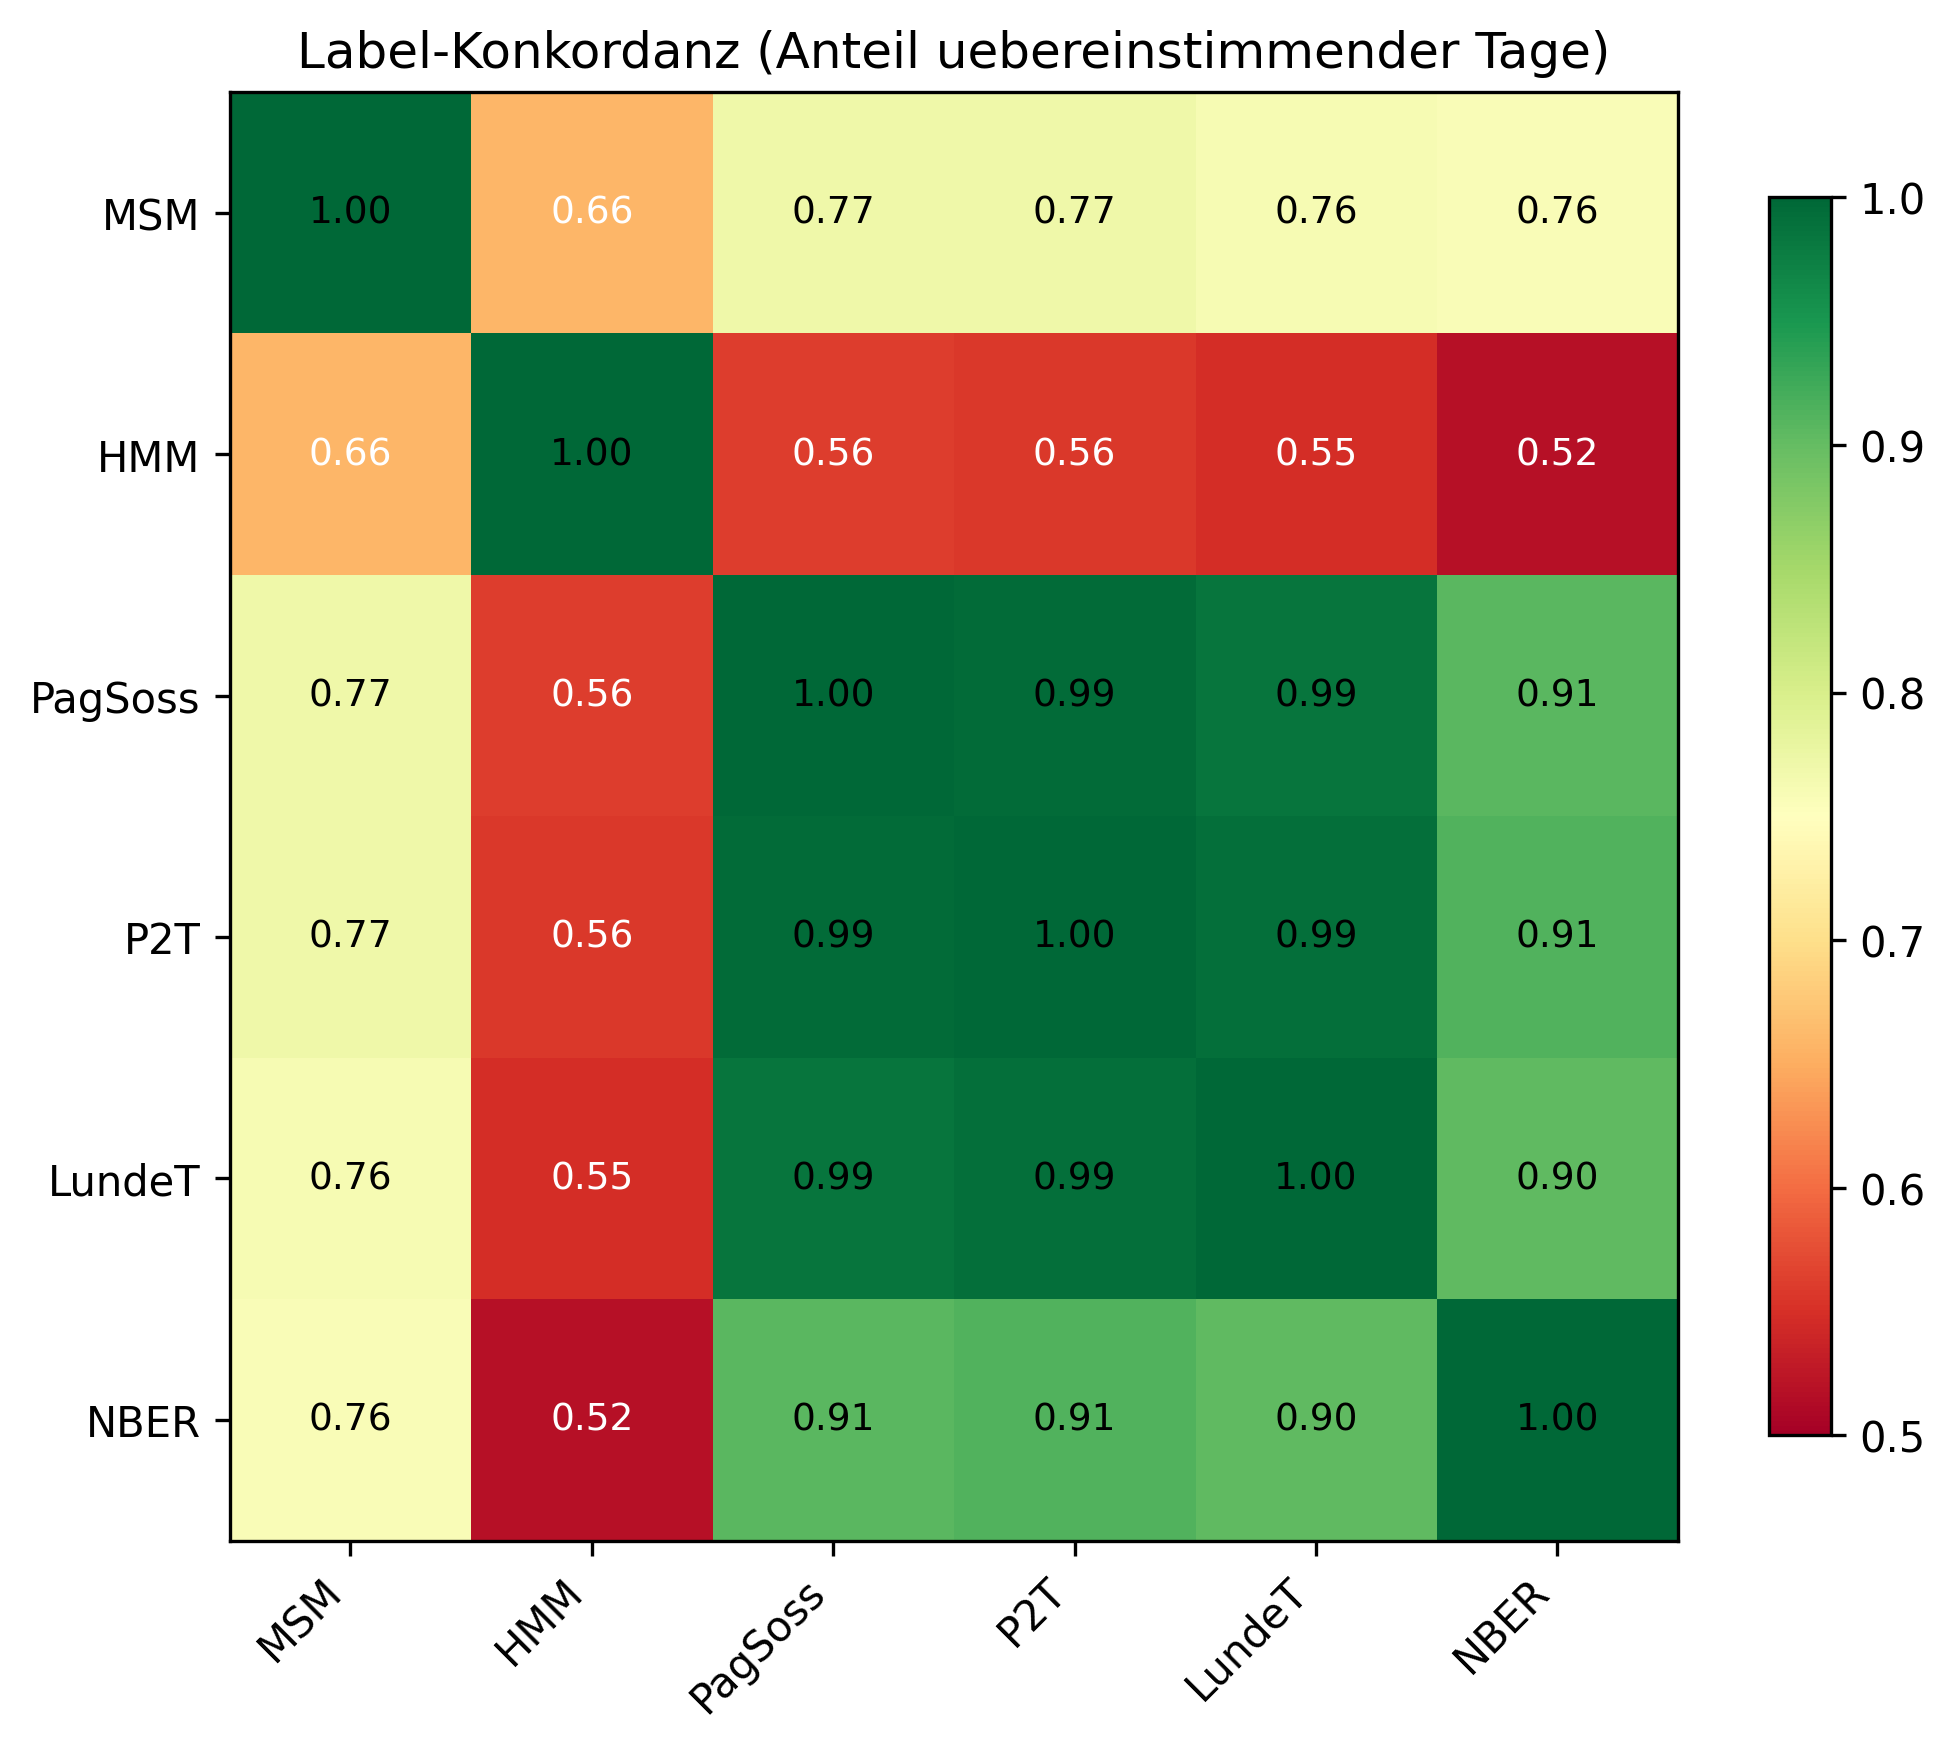
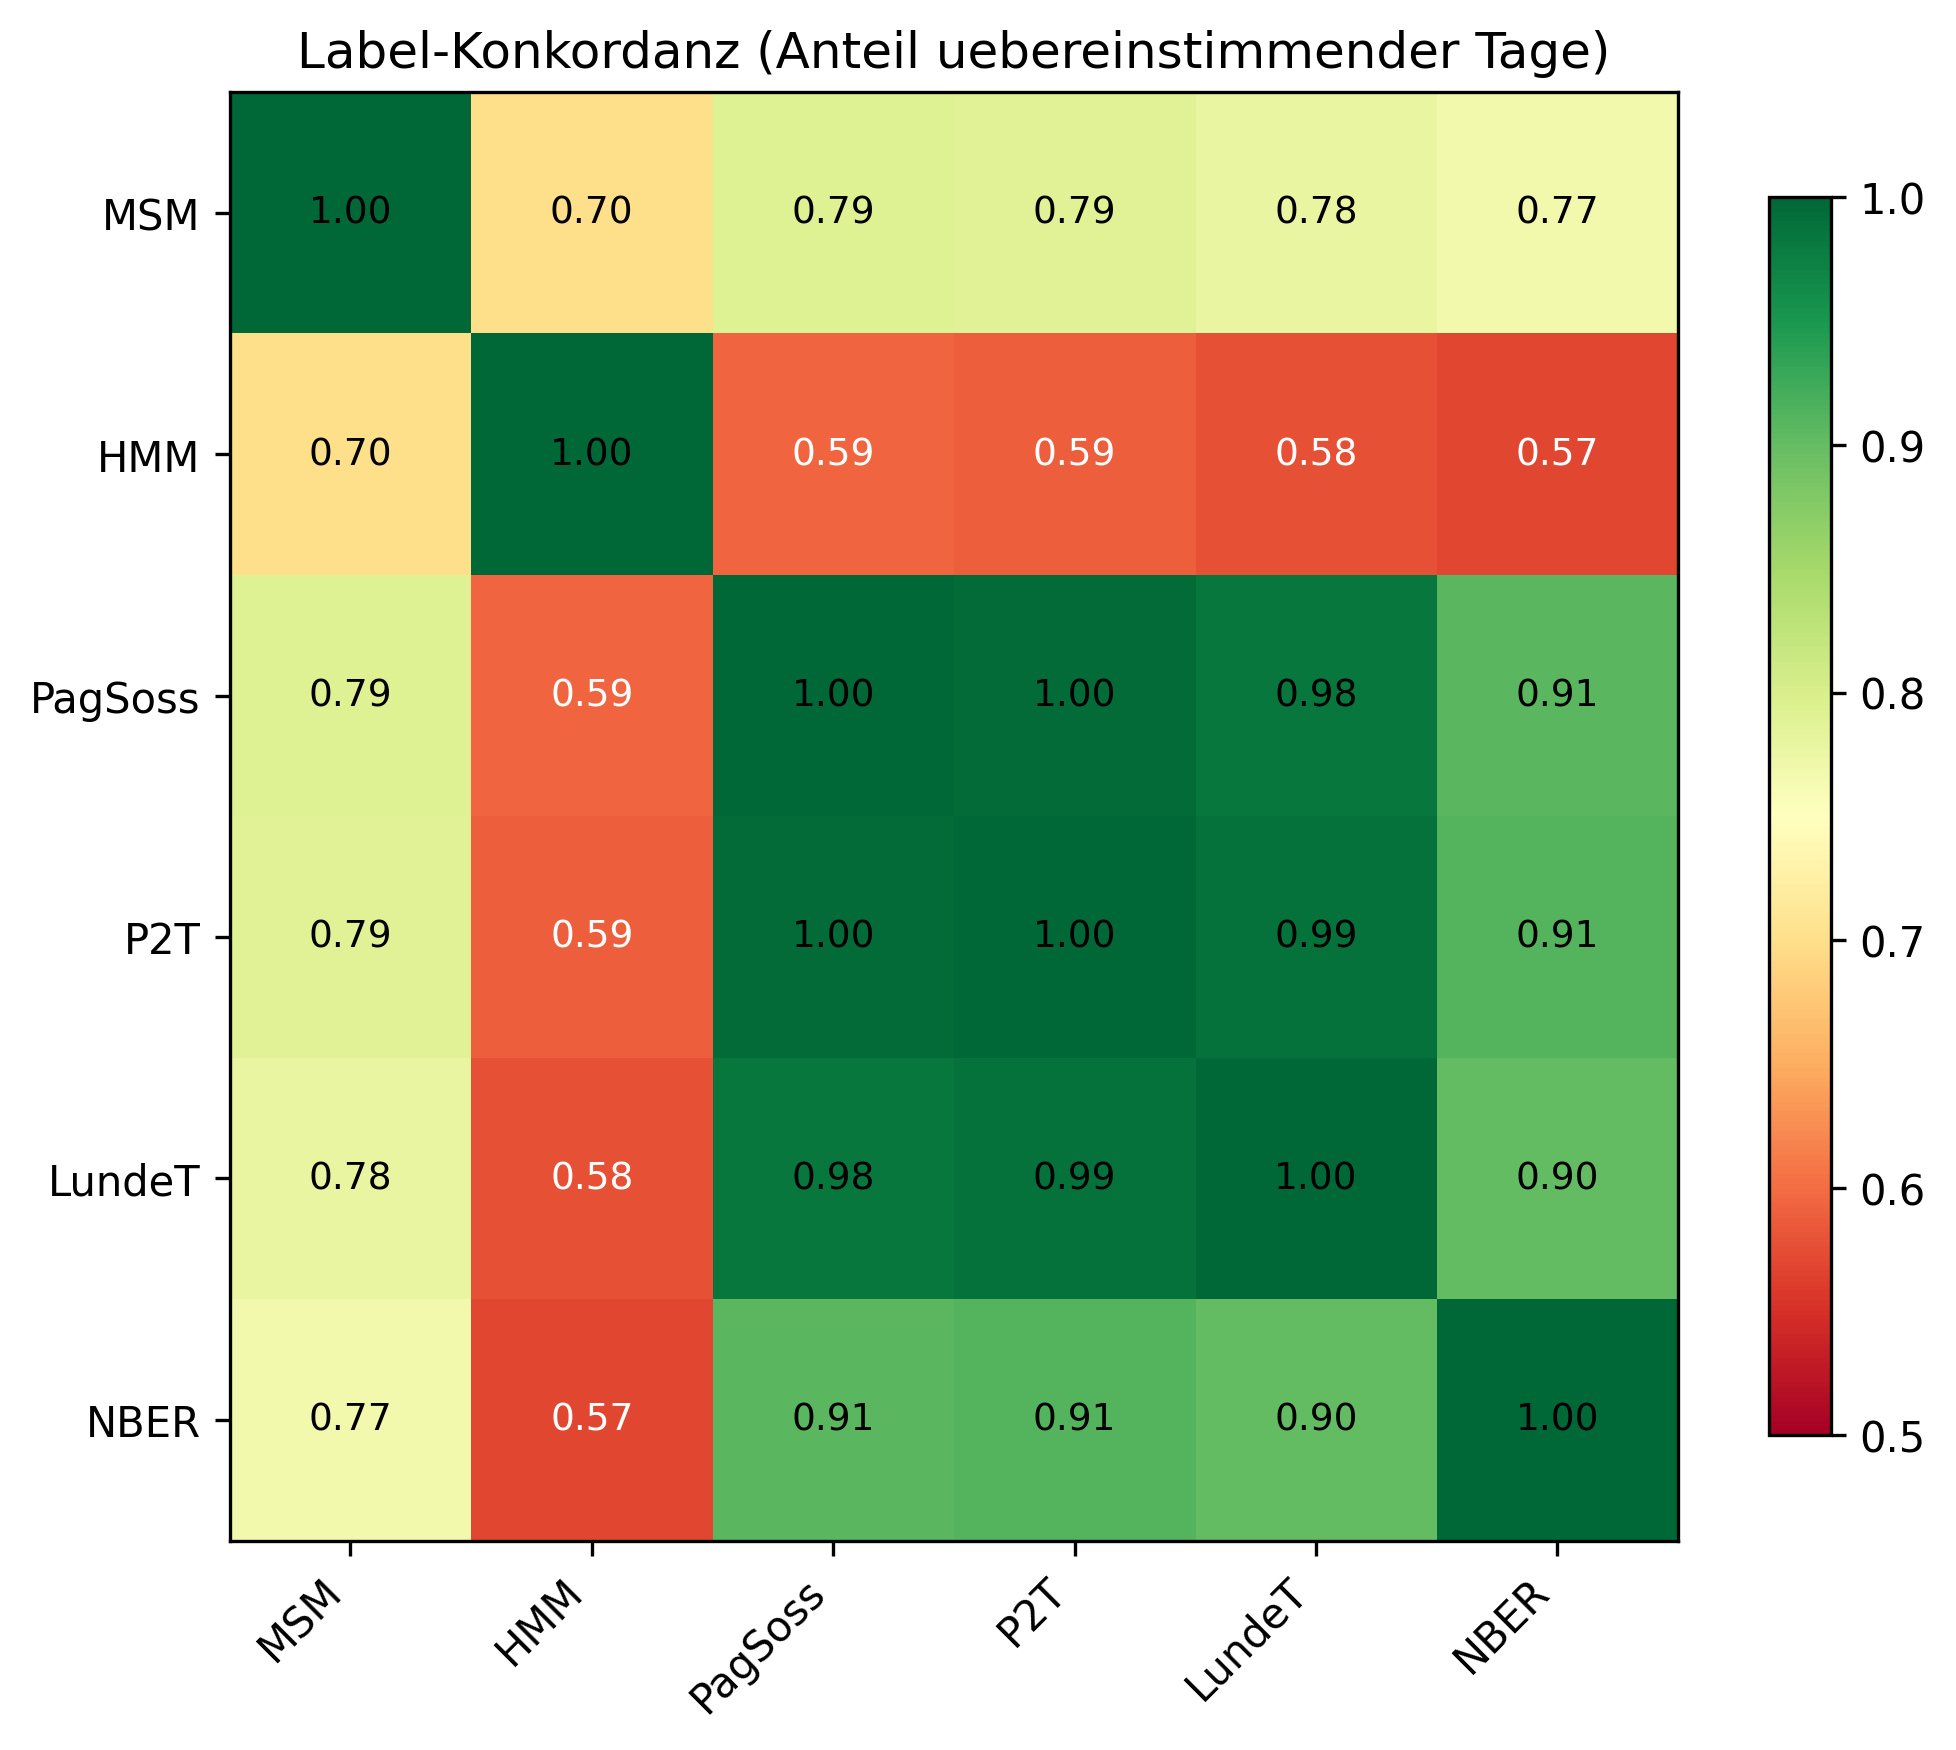
Expose label analysis via Data Service endpoint (#21)
Extract the label concordance and switch-statistics workflow from notebook 01a into a reusable `run_label_analysis` helper and expose it through the Data Service as `POST /data/label-analysis`, so the microservice architecture can reproduce the same analysis that was previously only available interactively.

- Add `run_label_analysis` in `src/data/labels/concordance.py` as the single source of truth for concordance matrix, timeline plot, and per-labeler switch statistics; writes both PNGs to `assets/` and returns the numeric results as a dict.
- Register `POST /data/label-analysis` in the Data Service that calls the helper and returns `{status, elapsed_s, concordance, switch_stats}` as JSON.
- Slim down notebook `01a_label_analysis.ipynb` to import and call the shared helper, guaranteeing notebook and service stay in sync.
- Add missing `COPY services/warnings_config.py` to the data, model, and backtest Dockerfiles so all three services build again after the earlier warnings-config change.

Refs #21 (still open: docs).

Changed region(s): [[0.0936, 0.0309, 0.8732, 0.8949], [0.5302, 0.3703, 0.5613, 0.4011], [0.4054, 0.5246, 0.4366, 0.5554]]

diff --git a/src/data/labels/concordance.py b/src/data/labels/concordance.py
@@ -91,3 +91,59 @@ def plot_label_timeline(
     plt.tight_layout()
     plt.savefig(save_path, dpi=300, bbox_inches="tight")
     plt.close(fig)
+    
+def run_label_analysis(
+    test_df: pd.DataFrame,
+    raw_df: pd.DataFrame,
+    concordance_path: str,
+    timeline_path: str,
+) -> dict:
+    """
+    Vergleicht MSM/HMM-Labels mit preisbasierten + makro Alternativen.
+
+    Schreibt Heatmap und Timeline-PNG und liefert eine kompakte
+    Statistik pro Methode (bear_share, n_switches, avg_phase_days)
+    sowie die Konkordanz-Matrix zurueck.
+    """
+    from src.data.labels import (
+        label_pagan_sossounov,
+        label_peak_to_trough,
+        label_lunde_timmermann,
+        load_nber_recession,
+    )
+
+    prices = test_df["Cumulative_Returns"]
+
+    labels = {
+        "MSM":     test_df["MSM_Signal"].astype("int8"),
+        "HMM":     test_df["HMM_Signal"].astype("int8"),
+        "PagSoss": label_pagan_sossounov(prices),
+        "P2T":     label_peak_to_trough(prices, threshold=0.20),
+        "LundeT":  label_lunde_timmermann(prices),
+        "NBER":    load_nber_recession(test_df.index),
+    }
+
+    # Heatmap
+    concordance = compute_concordance_matrix(labels)
+    plot_concordance_heatmap(concordance, concordance_path)
+
+    # Timeline (S&P-500-Kurslinie aus raw)
+    plot_prices = raw_df["^GSPC"].reindex(test_df.index).ffill()
+    plot_label_timeline(labels, plot_prices, timeline_path)
+
+    # Switch-Statistik
+    switch_stats = pd.DataFrame({
+        name: {
+            "bear_share_pct": float(s.mean() * 100),
+            "n_switches": int((s.diff().abs() == 1).sum()),
+            "avg_phase_days": float(
+                len(s) / max((s.diff().abs() == 1).sum(), 1)
+            ),
+        }
+        for name, s in labels.items()
+    }).T
+
+    return {
+        "concordance": concordance.round(4).to_dict(),
+        "switch_stats": switch_stats.round(2).to_dict(orient="index"),
+    }

diff --git a/services/data_service/routes.py b/services/data_service/routes.py
@@ -8,6 +8,7 @@ from src.data.plots import (
     plot_volatility_clusters, plot_historical_drawdowns,
     plot_capital_curve, plot_feature_correlation,
 )
+from src.data.labels import run_label_analysis
 import pandas as pd
 import time
 import logging
@@ -88,3 +89,53 @@ def get_features():
     except FileNotFoundError:
         raise HTTPException(404, "Feature data not found. Run /data/ingest first.")
     return df.to_dict(orient="split")
+
[email redacted]("/label-analysis")
+def label_analysis():
+    """
+    Alternative Regime-Labels (PagSoss, P2T, LundeT, NBER) vs. MSM/HMM
+    auf der OOS-Periode. Setzt voraus, dass der Backtest-Service
+    bereits gelaufen ist und MSM_Signal/HMM_Signal in test_data
+    geschrieben hat.
+    """
+    start = time.time()
+    cfg = get_cfg()
+    logger.info("Starting label analysis...")
+
+    try:
+        test_df = pd.read_parquet(cfg.data_path("test_data"))
+    except FileNotFoundError:
+        raise HTTPException(
+            404,
+            "test_data not found. Run /backtest first "
+            "(MSM_Signal/HMM_Signal required).",
+        )
+    try:
+        raw_df = pd.read_parquet(cfg.data_path("raw"))
+    except FileNotFoundError:
+        raise HTTPException(404, "raw data not found. Run /data/ingest first.")
+
+    missing = [c for c in ("MSM_Signal", "HMM_Signal", "Cumulative_Returns")
+               if c not in test_df.columns]
+    if missing:
+        raise HTTPException(
+            400,
+            f"test_data missing required columns: {missing}. "
+            "Run /backtest first.",
+        )
+
+    result = run_label_analysis(
+        test_df=test_df,
+        raw_df=raw_df,
+        concordance_path=cfg.asset_path("label_concordance_matrix"),
+        timeline_path=cfg.asset_path("label_timeline_comparison"),
+    )
+
+    elapsed = time.time() - start
+    logger.info(f"Label analysis complete in {elapsed:.1f}s")
+
+    return {
+        "status": "ok",
+        "elapsed_s": round(elapsed, 2),
+        **result,
+    }

diff --git a/src/data/labels/__init__.py b/src/data/labels/__init__.py
@@ -6,6 +6,11 @@ from src.data.labels.lunde_timmermann import label_lunde_timmermann
 from src.data.labels.nber import load_nber_recession
 from src.data.labels.concordance import compute_concordance_matrix, plot_label_timeline
 from src.data.labels.resolver import compute_supervised_labels, resolve_label_col
+from src.data.labels.concordance import (
+    compute_concordance_matrix,
+    plot_label_timeline,
+    run_label_analysis,
+)
 
 __all__ = [
     "label_pagan_sossounov",